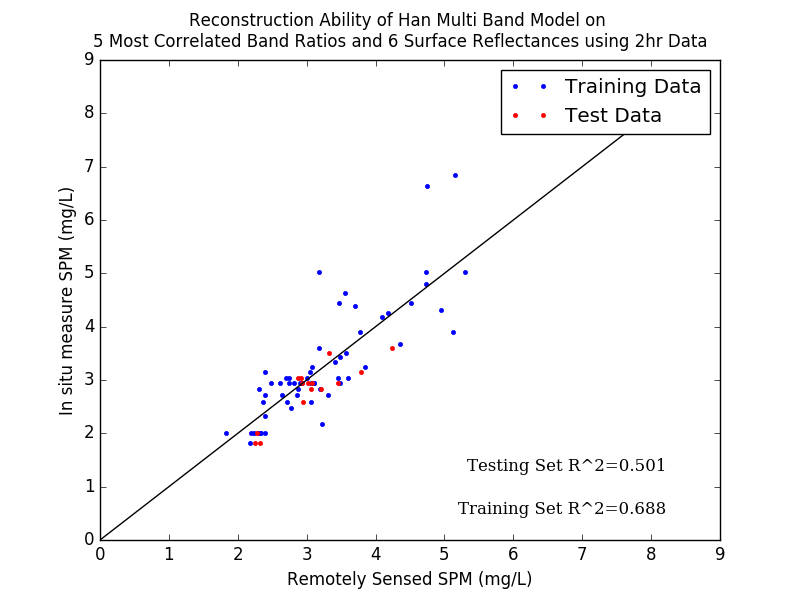
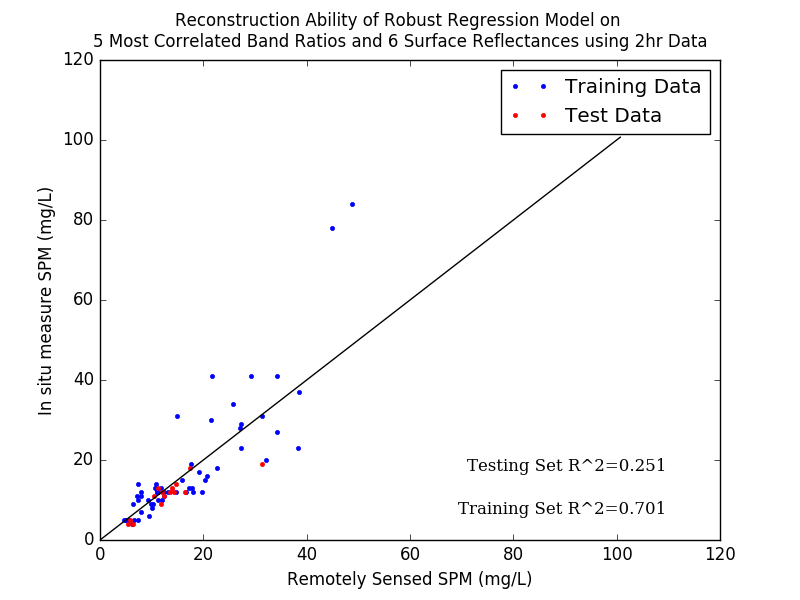
reorganized maps. making sure r2s match between mapping and make plots

diff --git a/learning/mapping.py b/learning/mapping.py
@@ -77,7 +77,13 @@ def get_feature_array(scene_folder_path):
     # Test on only one band
     # full_data = full_data[:,1:2]
 
-    return full_data, image_shape
+    # create matrix representing valid data
+    valid_data = np.ones_like(data['reflec_1'])
+    for band in range(6):
+        valid_data[full_data[:,band] < 0] = 0
+        valid_data[full_data[:,band] > 10000] = 0
+
+    return full_data, image_shape, valid_data
 
 
 def create_model():
@@ -114,10 +120,10 @@ def create_model():
     y_train = model['data']['y_train']
     y_train_pred = model['data']['y_train_pred']
 
-    r2_test = np.round(r2_score(y_test, y_pred), 3)
-    r2_train = np.round(r2_score(y_train, y_train_pred), 3)
+    r2_test = np.round(r2_score(np.exp(y_test), np.exp(y_pred)), 3)
+    r2_train = np.round(r2_score(np.exp(y_train), np.exp(y_train_pred)), 3)
 
-    print('Done training robust regression. R2 train = {}. Starting SPM prediction calculation...'.format(r2_train))
+    print('Done training robust regression. True scale R2 train = {}. Starting SPM prediction calculation...'.format(r2_train))
 
     return theta
 
@@ -128,7 +134,7 @@ def create_color_map(scene_path=''):
     :param scene_path:
     :return:
     '''
-    scene_data, image_shape = get_feature_array(scene_path)
+    scene_data, image_shape, valid = get_feature_array(scene_path)
 
     color_img = np.zeros((image_shape[0], image_shape[1], 3))
     color_img[:, :, 0] = scene_data[:, 0].reshape(image_shape)  # blue - band 1
@@ -160,7 +166,7 @@ def create_spm_map(theta=None, scene_path='', log_spm_flag=False, color_flag=Tru
     else:
         print('Using given theta. Creating predicted SPM map')
 
-    scene_data, image_shape = get_feature_array(scene_path)
+    scene_data, image_shape, valid = get_feature_array(scene_path)
 
     predicted_spm_log = np.dot(scene_data, theta)
     predicted_spm = np.exp(predicted_spm_log)
@@ -187,7 +193,6 @@ def create_spm_map(theta=None, scene_path='', log_spm_flag=False, color_flag=Tru
     # make darker areas correspond to higher turbidity
     spm_map = 255 - np.array(spm_map, dtype='uint8')
 
-    all_imgs = lgd.get_scene_imgs(scene_path)
 
     if (color_flag):
         # want water to be grayscale
@@ -200,6 +205,8 @@ def create_spm_map(theta=None, scene_path='', log_spm_flag=False, color_flag=Tru
         spm_map_color[:, :, 1] = spm_map  # green - land
         spm_map_color[:, :, 2] = spm_map  # bue - cloud
 
+        # color code image by cloud and land
+        all_imgs = lgd.get_scene_imgs(scene_path)
         cloud_path = lgd.get_cloud(all_imgs)
         print 'Cloud tif path: ' + str(cloud_path)
         cloud = cv2.imread(cloud_path, cv2.IMREAD_ANYDEPTH)
@@ -220,7 +227,13 @@ def create_spm_map(theta=None, scene_path='', log_spm_flag=False, color_flag=Tru
         spm_map_color[:, :, 0][cloud == 1] = 0
         spm_map_color[:, :, 1][cloud == 1] = 0
         spm_map_color[:, :, 2][cloud == 1] += 100  # red
-        # let blue channel be equal to spm to shade cloud mass
+        # let red channel be equal to spm to shade cloud mass
+
+        # color code non-valid data spots as red
+        valid_shaped = valid.reshape(image_shape)
+        spm_map_color[:, :, 0][valid_shaped == 0] = 0
+        spm_map_color[:, :, 1][valid_shaped == 0] = 0
+        spm_map_color[:, :, 2][valid_shaped == 0] += 100  # red
 
     # Convert image to dataframe and print numerical summary of spm data (exluding land spm)
     df = pd.DataFrame(spm_map[water == 1].ravel())
@@ -236,7 +249,8 @@ def create_spm_map(theta=None, scene_path='', log_spm_flag=False, color_flag=Tru
     scene_name = lgd.get_scene_name(all_imgs[0])
     log_str = ('log_' if log_spm_flag else '')
     color_str = ('_color' if color_flag else '')
-    cv2.imwrite('../figures/{}spm_map{}_{}.jpg'.format(log_str, color_str, scene_name),
+    folder = log_str + 'spm_maps' + ('_color' if color_flag else '')
+    cv2.imwrite('../figures/{}/{}spm_map{}_{}.jpg'.format(folder,log_str, color_str, scene_name),
                 spm_map_color if color_flag else spm_map)
 
 

diff --git a/learning/make_plots.py b/learning/make_plots.py
@@ -263,10 +263,12 @@ def make_huber_train_band_ratios(time_cutoff, spm_cutoff=None):
         spm_cutoff=spm_cutoff)  # 8hr data
 
     # Get top 5 correlated band ratios
-    # top_5_bands = regression.division_feature_expansion(x)[:,[29,9,14,28,5]]
     top_5_bands = regression.top_5_band_ratios(x)
     # Add to feature array
     x = np.append(x, top_5_bands, axis=1)
+
+    # exclude band 5 and 7 and last two band ratios which include them
+    # x = x[:,[0,1,2,3,6,7,8]]
 
     '''
     # Get top 3 correlated band ratios
@@ -414,8 +416,8 @@ if __name__ == '__main__':
     # make_huber_train()
     # make_huber_test()
     # [make_huber_train_band_ratios(i) for i in [1,2,4,8]]
-    # make_huber_train_band_ratios(2)
+    make_huber_train_band_ratios(2)
     # make_huber_train_EA_MB(2)
-    make_huber_train_basic(2)
+    # make_huber_train_basic(2)
     # plot_r2_over_time_diff()
     # r2_vs_time_cutoff([8])

diff --git a/README.md b/README.md
@@ -18,6 +18,10 @@ landsat 8 band | wavelength           | landsat 4,5,7 band
              7 | 2110 - 2290 SWIR 2   | 7
              8 | 500-680 panchromatic | 8
           none | IR                   | 6
+   
+http://landsat.usgs.gov/documents/cdr_sr_product_guide.pdf
+^ Explains valid data range
+
 *Meris (Coast color) bands*
 http://www.coastcolour.org/publications/Coastcolour-PUG-v2.2.pdf
 page 28
